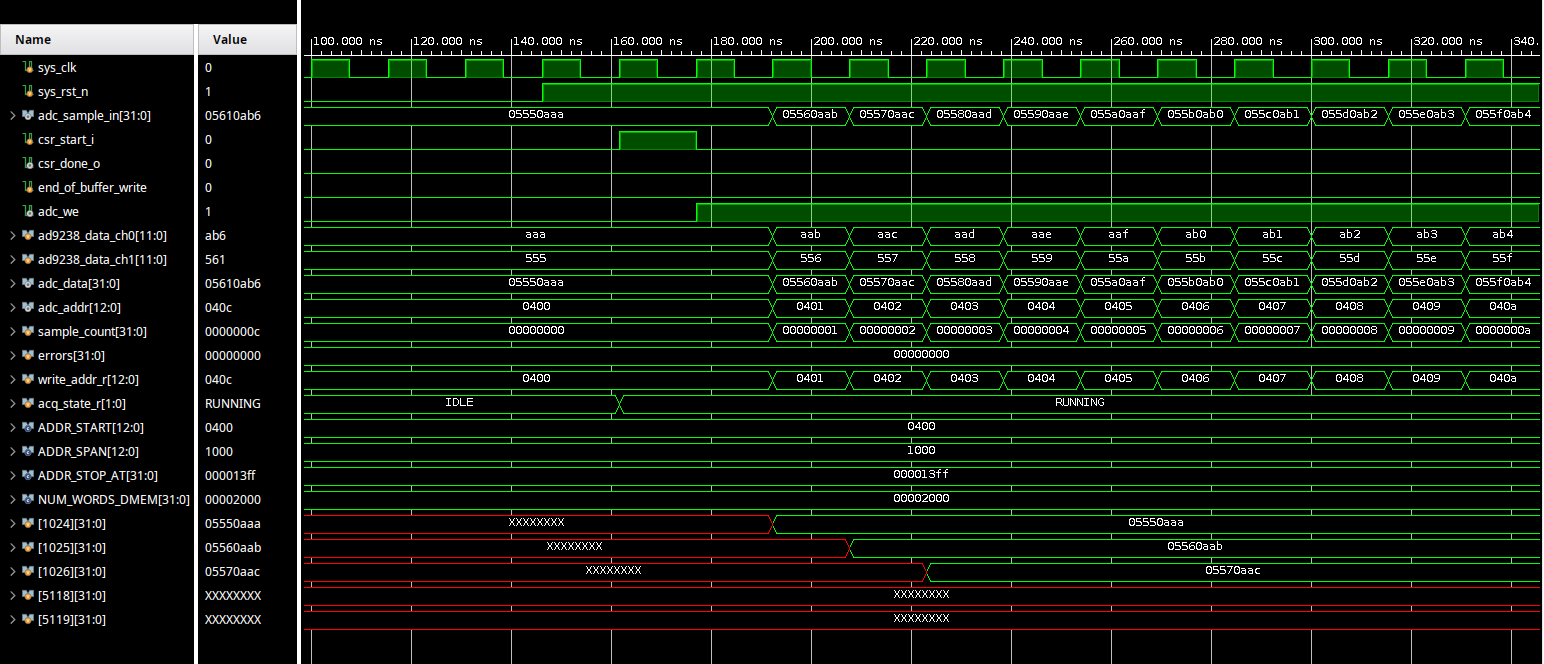
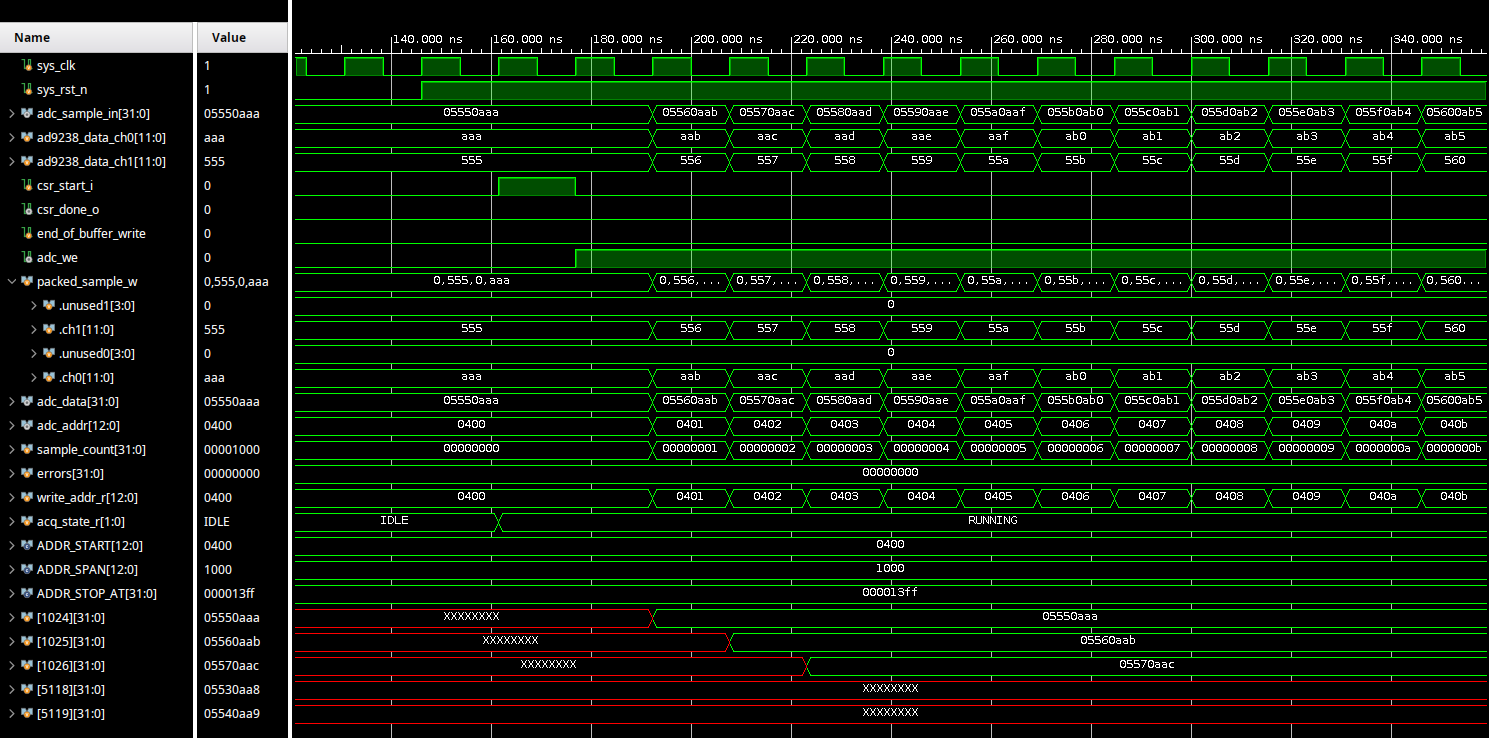
Update ADC controller: add packed struct for signal visibility and update README

diff --git a/3.miniac/README.md b/3.miniac/README.md
@@ -28,7 +28,7 @@ We explore two distinct methodologies: a Direct Method that involves real-time, 
 
 ## Methodology
 
-The Miniac is a tool for data acquisition and visualizationation. As can be seen on teh diagram below, first we use our ADC to sample sine signals from a signal generator, after which we send our data to the Control and Status Registers (CSR). From here we have two options, one is to take the data directly from the CSR and send it via UART to our PC, where we will then run our Python code for visualization and dsp, or we can collect the data from CSR with our RISC-V processor and store the data in DMEM. Once we store this data we can then send all of it (once again via UART) to our PC. There we will have another Python code ready to read the data and do visualization and FFT. The two options we described are our Direct and Indirect snooping methods, respectfully.
+The Miniac is a tool for data acquisition and visualization. As can be seen on the diagram below, first we use our ADC to sample sine signals from a signal generator, after which we send our data to the Control and Status Registers (CSR). From here we have two options, one is to take the data directly from the CSR and send it via UART to our PC, where we will then run our Python code for visualization and dsp, or we can collect the data from CSR with our RISC-V processor and store the data in DMEM. Once we store this data we can then send all of it (once again via UART) to our PC. There we will have another Python code ready to read the data and do visualization and FFT. The two options we described are our Direct and Indirect snooping methods, respectively.
 
 <p align="center">
   <img width=900 src="0.doc/miniac.png">
@@ -63,17 +63,17 @@ For this method we run "CPUSnooping.py" (https://github.com/chili-chips-ba/uberC
 
 The fundamental difference between this script and the direct method lies in their data transfer strategy and overall efficiency. The first script continuously polls the FPGA for individual ADC samples, leading to significant UART overhead and limiting the achievable sampling frequency to approximately 100 Hz due to the overhead of numerous small transactions and PC-side latencies. In contrast, this indirect method batches data transfer by reading large blocks (1024 samples) at once, and crucially, allows the FPGA to sample and buffer data autonomously without constant PC intervention. This approach drastically reduces the number of UART transactions and minimizes PC-side communication overhead, enabling the system to achieve a much higher effective sampling frequency of up to 250 [kHz], making it far more suitable for acquiring higher-frequency signals. We demonstrate the functionality of our method on the pictures below.
 
-- Sampling a 50[Hz] sine with the direct method
+- Sampling a 50[Hz] sine with the indirect method
 <p align="center">
     <img width=600 src="0.doc/CPUSnooping_100kHz.png">
 </p>
 
-- Sampling a 200[kHz] sine with the direct method
+- Sampling a 200[kHz] sine with the indirect method
 <p align="center">
     <img width=600 src="0.doc/CPUSnooping_200kHz.png">
 </p>
 
-- Sampling a 250[kHz] sine with the direct method
+- Sampling a 250[kHz] sine with the indirect method
 <p align="center">
     <img width=600 src="0.doc/CPUSnooping_250kHz.png">
 </p>
@@ -119,15 +119,16 @@ The following analysis is based on the behavioral simulation of the `top_tb` mod
 
 ```mermaid 
 flowchart TD
-    ST(( )) --> IDLE
+    RESET((sys_rst_n)) -- Asynchronous Active-Low Reset --> IDLE
 
     IDLE(["<b>IDLE</b><br/>adc_we_o = 0<br/>csr_done_o = 0<br/>addr = 0x0400"])
     RUNNING(["<b>RUNNING</b><br/>adc_we_o = 1<br/>csr_done_o = 0<br/>addr++"])
-    DONE(["<b>DONE</b><br/>adc_we_o = 0<br/>csr_done_o = 1"])
+    DONE(["<b>DONE</b><br/>adc_we_o = 0<br/>csr_done_o = 1<br/>addr = ADDR_START"])
 
     IDLE -- "csr_start_i == 1" --> RUNNING
-    RUNNING -- "addr == 0x13FF" --> DONE
+    RUNNING -- "addr == ADDR_STOP_AT" --> DONE
     DONE -- "csr_start_i == 0" --> IDLE
+    
 ```
 
 ### 1. Acquisition Initiation (IDLE -> RUNNING)
@@ -145,6 +146,18 @@ The system demonstrates reliable data throughput, verified by a self-checking te
     |-------|---------|---------------|---------|---------------|
     | Field | Unused  | **Channel 1** | Unused  | **Channel 0** |
     | Value | 0000    | 12-bit sample | 0000    | 12-bit sample |
+
+    #### Memory Efficiency Analysis
+
+    | Strategy | Efficiency | Complexity | CPU Impact |
+    | :--- | :--- | :--- | :--- |
+    | **Current (32-bit Aligned)** | **75%** | **Low** | **Fast processing** |
+    | Packed (Back-to-back) | 100% | High | Slow (Bit-shifting needed) |
+
+    The controller stores two 12-bit samples within each 32-bit memory word, resulting in 75% utilization of the available memory space. While 100% efficiency could be achieved by packing samples back-to-back, that would require splitting individual samples across memory word boundaries. 
+    
+    This 32-bit aligned approach was selected to avoid the need for complex bit-shifting logic in RTL and to ensure the CPU can access and process both channels directly without additional data manipulation.
+    
 * **Memory Verification**: Verification of the RAM contents confirms the storage of **4096 samples**. The first entry at address `0x0400` was verified as `0x05550AAA`, and the final entry at `0x13FF` was `0x05540AA9`, matching the expected 12-bit incremental wrap-around logic.
 
 <p align="center">
